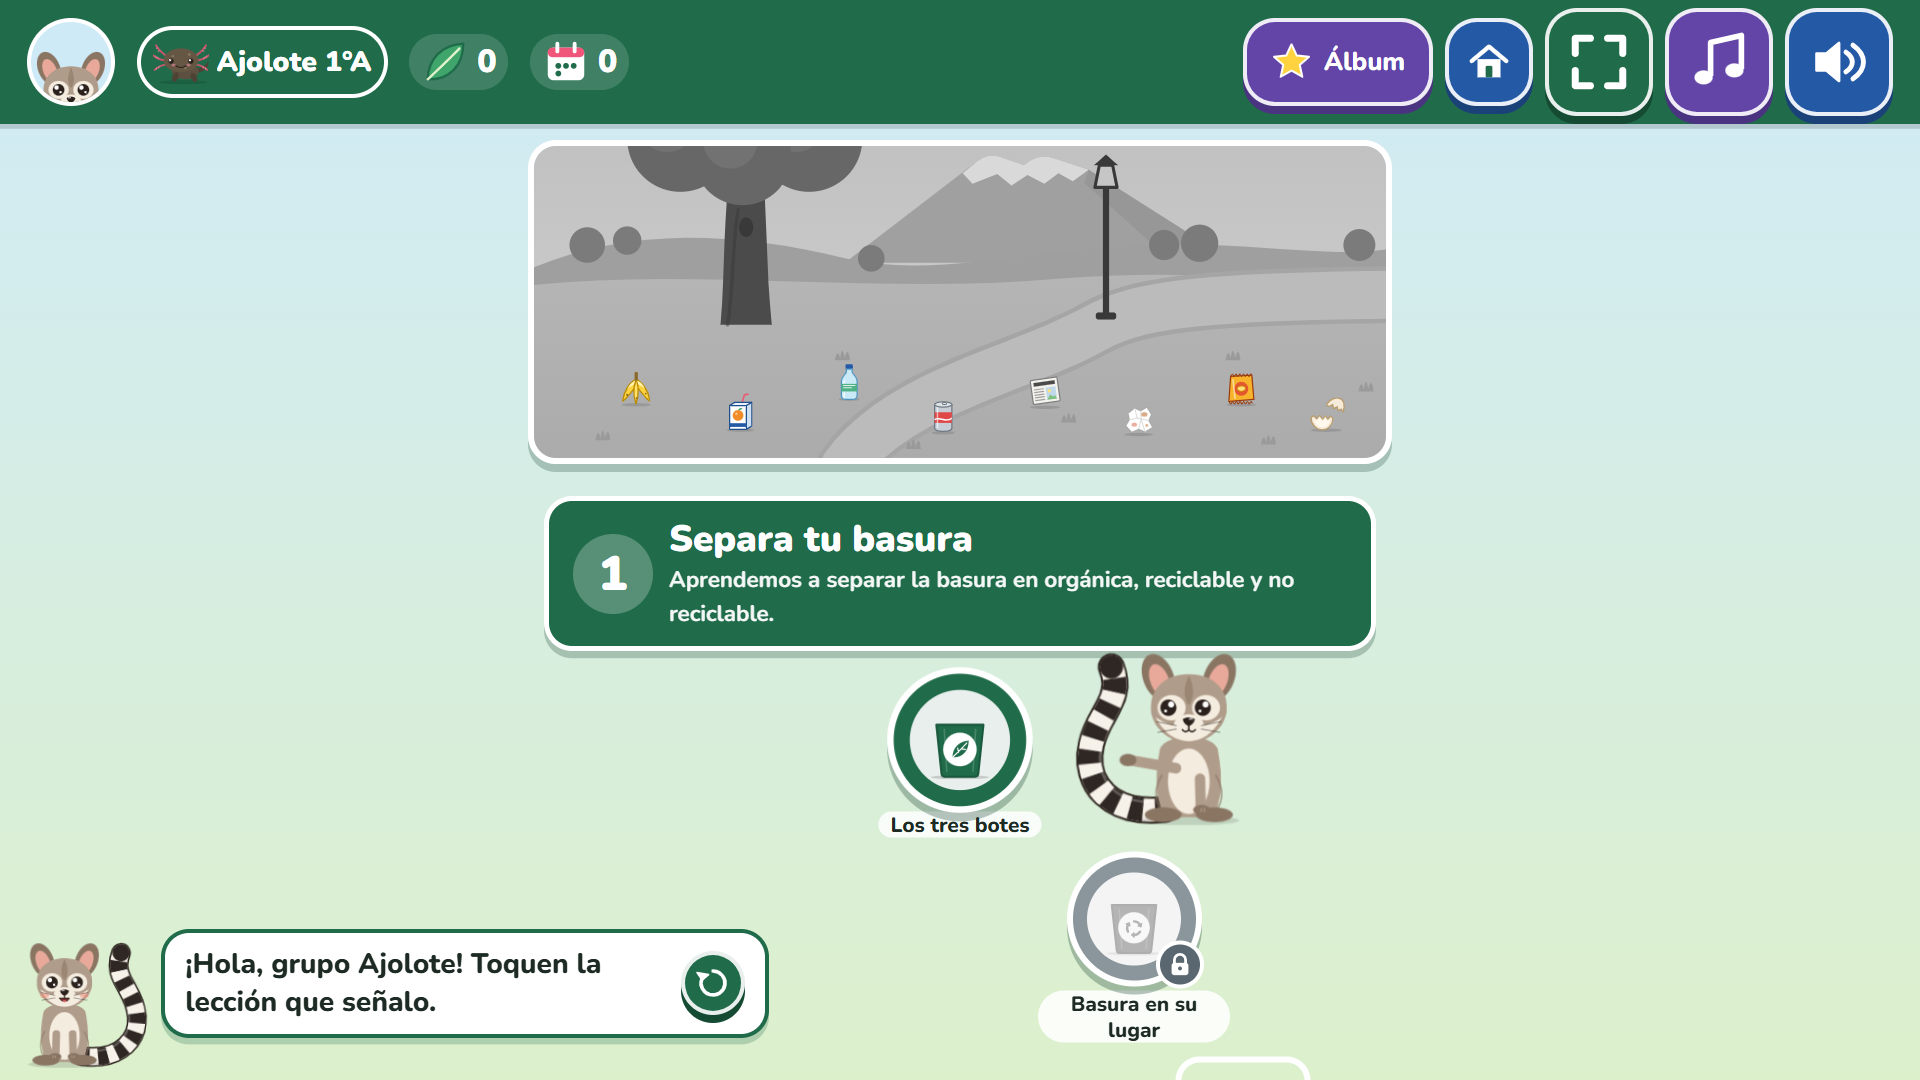
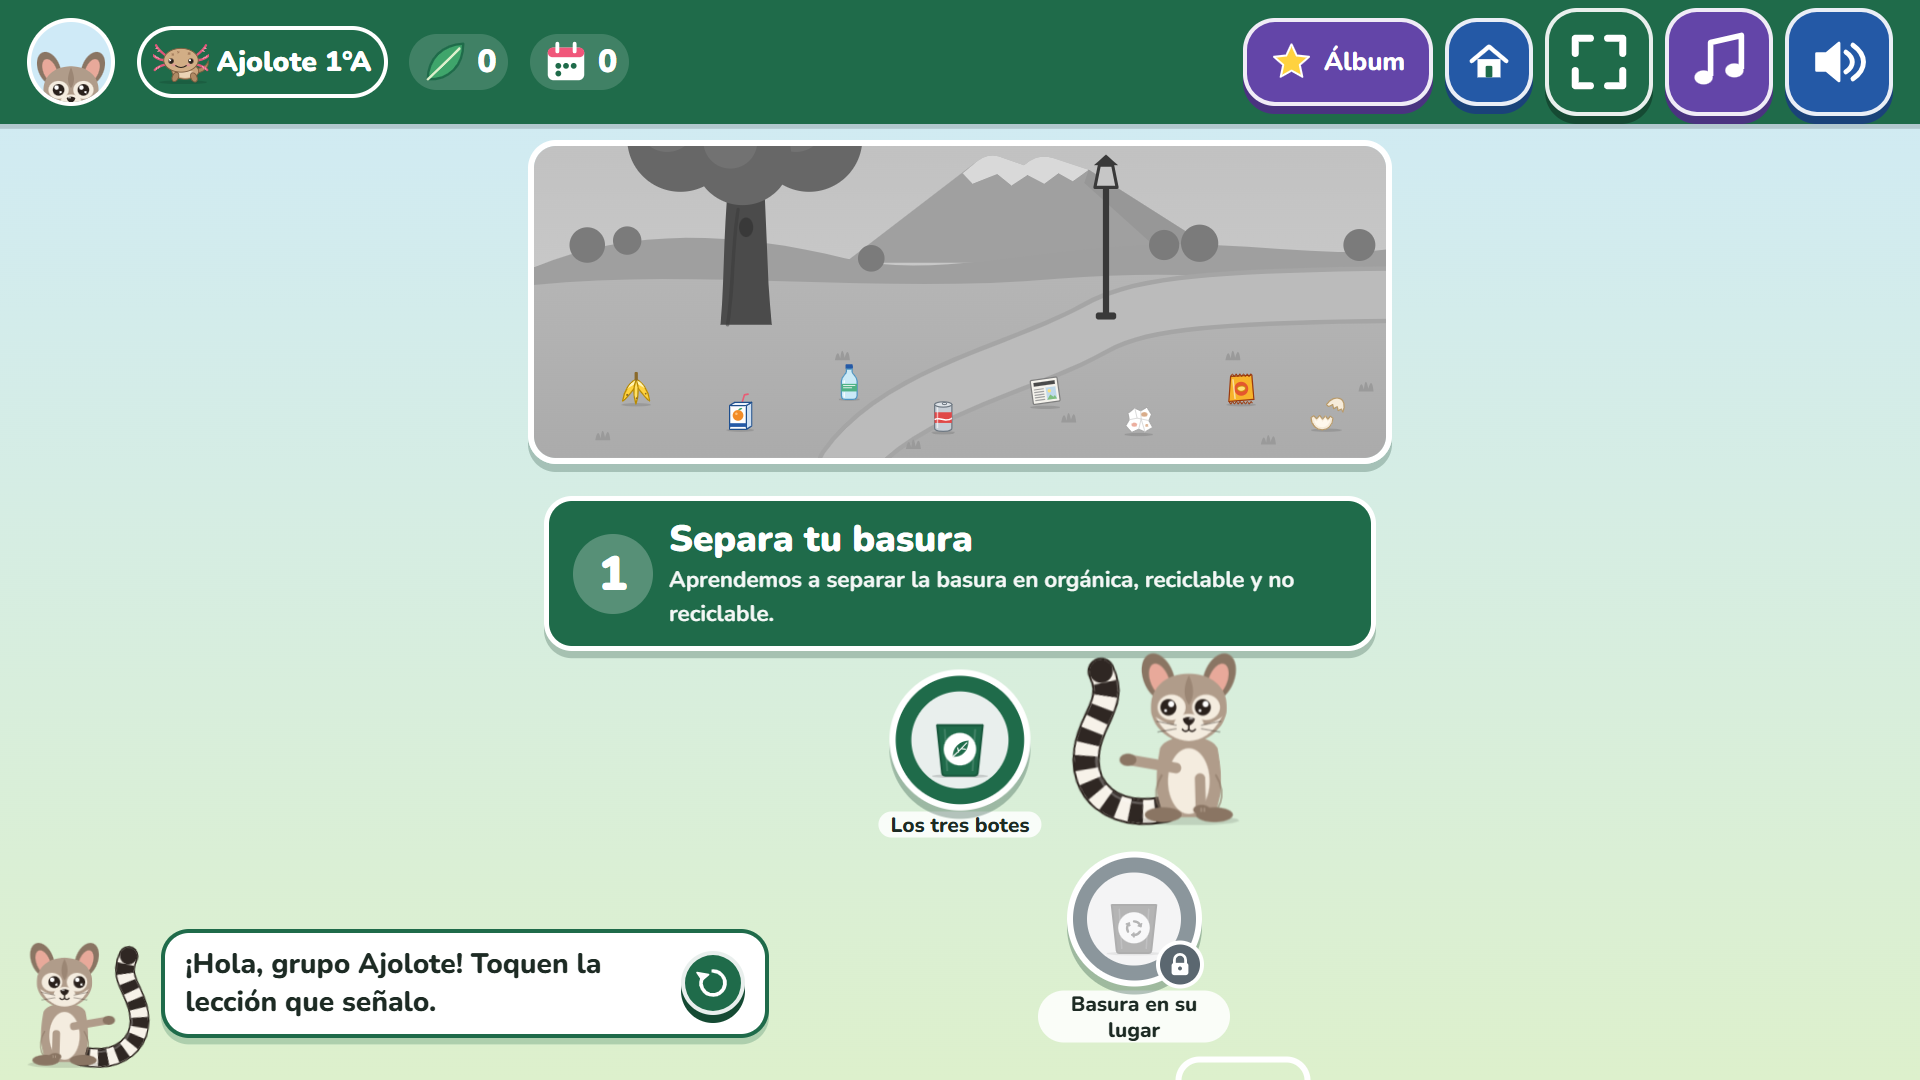
Ajustes visuales: ejercicios más grandes, Caco fijo, tarjetas parejas y ajolote
- Lecciones: Caco y su globo van en una fila de alto fijo (ya no cambian de
  lugar entre ejercicios) y el ejercicio se centra en todo el espacio que queda.
- Tarjetas, botes, caritas y escenas ≈30 % más grandes, sin salirse en 1024×768.
- Todas las tarjetas de un ejercicio miden lo mismo: alto fijo con lugar para
  dos renglones de texto ("la botella" y "el corazón de manzana" iguales).
- Nuevo grupo: los 6 animales en cuadrícula de 3 y 3; el ajolote ahora es café
  claro con panza clara y branquias rosas (antes se veía como una mancha).
- npm run capturas acepta LECCIONES=u1-l2,... para revisar cada ejercicio.
- .gitignore: archivos de Vercel (.vercel, .env*).

Changed region(s): [[0.4688, 0.6111, 0.5938, 0.7639], [0.0312, 0.8861, 0.0938, 1.0], [0.0625, 0.0306, 0.125, 0.0917]]

diff --git a/src/arte/fauna.ts b/src/arte/fauna.ts
@@ -2,8 +2,9 @@ import { arte, type ArteSvg } from './svg';
 
 /*
  * Más fauna del Valle de Toluca, dibujada en SVG con el mismo estilo plano:
- * - Ajolote de montaña (Ambystoma rivulare), de los arroyos del Nevado de Toluca: piel oscura,
- *   cabeza ancha y branquias externas plumosas.
+ * - Ajolote de montaña (Ambystoma rivulare), de los arroyos del Nevado de Toluca: cabeza ancha y
+ *   branquias externas plumosas. En la naturaleza es café oscuro; aquí va en café claro, con la panza
+ *   más clara y las branquias rosas, para que se reconozca de lejos (en el proyector y en miniatura).
  * - Tlacuache (Didelphis virginiana): pelaje gris, cara blanca, hocico largo con nariz rosa,
  *   orejas negras redondas y cola larga sin pelo.
  */
@@ -11,20 +12,21 @@ const TINTA = '#2A211C';
 
 const AJOLOTE = `
   <ellipse cx="140" cy="192" rx="110" ry="9" fill="#000" opacity=".12"/>
-  <path d="M190 150 C 240 150 262 120 256 96 C 248 120 220 132 186 130 Z" fill="#4E4234"/>
-  <ellipse cx="150" cy="142" rx="62" ry="36" fill="#5E5040"/>
-  <ellipse cx="104" cy="168" rx="14" ry="22" fill="#4E4234" transform="rotate(25 104 168)"/>
-  <ellipse cx="190" cy="170" rx="14" ry="22" fill="#4E4234" transform="rotate(-25 190 170)"/>
-  <g fill="none" stroke="#C2566B" stroke-width="9" stroke-linecap="round">
+  <path d="M190 150 C 240 150 262 120 256 96 C 248 120 220 132 186 130 Z" fill="#B08A64" stroke="#7A5A3C" stroke-width="4" stroke-linejoin="round"/>
+  <ellipse cx="150" cy="142" rx="62" ry="36" fill="#C9A47C" stroke="#7A5A3C" stroke-width="4"/>
+  <ellipse cx="150" cy="154" rx="40" ry="18" fill="#EBD3B4"/>
+  <ellipse cx="104" cy="168" rx="14" ry="22" fill="#B08A64" stroke="#7A5A3C" stroke-width="4" transform="rotate(25 104 168)"/>
+  <ellipse cx="190" cy="170" rx="14" ry="22" fill="#B08A64" stroke="#7A5A3C" stroke-width="4" transform="rotate(-25 190 170)"/>
+  <g fill="none" stroke="#E0567A" stroke-width="11" stroke-linecap="round">
     <path d="M58 70 C 34 52 22 40 14 24"/><path d="M52 92 C 26 88 12 82 2 70"/><path d="M56 112 C 32 118 18 124 8 136"/>
     <path d="M202 70 C 226 52 238 40 246 24"/><path d="M208 92 C 234 88 248 82 258 70"/><path d="M204 112 C 228 118 242 124 252 136"/>
   </g>
-  <g stroke="#E58A9A" stroke-width="4" stroke-linecap="round">
+  <g stroke="#F59AB0" stroke-width="5" stroke-linecap="round">
     <path d="M30 48 l-8 4 M22 36 l-8 2 M28 84 l-8 -6 M16 80 l-6 -8 M30 120 l-6 8 M18 126 l-4 8"/>
     <path d="M230 48 l8 4 M238 36 l8 2 M232 84 l8 -6 M244 80 l6 -8 M230 120 l6 8 M242 126 l4 8"/>
   </g>
-  <ellipse cx="130" cy="92" rx="80" ry="54" fill="#665745"/>
-  <circle cx="92" cy="72" r="4" fill="#8A7A62"/><circle cx="168" cy="66" r="5" fill="#8A7A62"/><circle cx="150" cy="128" r="4" fill="#8A7A62"/>
+  <ellipse cx="130" cy="92" rx="80" ry="54" fill="#D2AE86" stroke="#7A5A3C" stroke-width="4"/>
+  <circle cx="92" cy="66" r="5" fill="#A88160"/><circle cx="168" cy="62" r="6" fill="#A88160"/><circle cx="118" cy="56" r="4" fill="#A88160"/>
   <circle cx="84" cy="96" r="12" fill="${TINTA}"/><circle cx="176" cy="96" r="12" fill="${TINTA}"/>
   <circle cx="80" cy="92" r="4" fill="#fff"/><circle cx="172" cy="92" r="4" fill="#fff"/>
   <path d="M104 116 Q 130 134 156 116" fill="none" stroke="${TINTA}" stroke-width="5" stroke-linecap="round"/>

diff --git a/src/app/ejercicios/comun.tsx b/src/app/ejercicios/comun.tsx
@@ -43,8 +43,11 @@ const BORDES: Record<EstadoTarjeta, string> = {
   apagada: 'border-white bg-white opacity-40',
 };
 
+/** Tamaño de las tarjetas: grande en el proyector, sin salirse en una tablet de 1024×768. */
+export const TAMANO_TARJETA = 'clamp(9rem,min(30vmin,22vw),20rem)';
+
 /** Tarjeta ilustrada grande para tocar (siempre ≥ 64 px; el nombre se lee también en voz). */
-export function Tarjeta({ tarjeta, estado = 'normal', conTexto = false, sacudir = 0, tamano = 'clamp(7.5rem,19vmin,13rem)', onClick }: PropsTarjeta) {
+export function Tarjeta({ tarjeta, estado = 'normal', conTexto = false, sacudir = 0, tamano = TAMANO_TARJETA, onClick }: PropsTarjeta) {
   return (
     <motion.button
       type="button"
@@ -60,10 +63,15 @@ export function Tarjeta({ tarjeta, estado = 'normal', conTexto = false, sacudir 
       transition={{ duration: 0.4 }}
       whileTap={{ scale: 0.95 }}
       className={`relative flex cursor-pointer flex-col items-center justify-center gap-1 rounded-[1.75rem] border-[6px] p-3 shadow-[0_0.45rem_0_rgba(18,61,43,0.25)] disabled:cursor-default ${BORDES[estado]}`}
-      style={{ width: tamano, minHeight: tamano }}
+      // Alto fijo (no mínimo): "la botella" y "el corazón de manzana" miden lo mismo.
+      style={{ width: tamano, height: conTexto ? `calc(${tamano} * 1.3)` : tamano }}
     >
-      <Arte clave={tarjeta.arte} className="h-[72%] max-h-[10rem] w-[80%] object-contain" />
-      {conTexto && <span className="text-center text-[clamp(1rem,2.2vmin,1.5rem)] leading-tight font-extrabold text-tinta">{tarjeta.nombre}</span>}
+      <Arte clave={tarjeta.arte} className="min-h-0 w-[82%] flex-1 object-contain" />
+      {conTexto && (
+        <span className="flex h-[2.5em] shrink-0 items-center text-center text-[clamp(1rem,2.4vmin,1.7rem)] leading-tight font-extrabold text-tinta">
+          {tarjeta.nombre}
+        </span>
+      )}
       {estado === 'bien' && (
         <span className="absolute -top-4 -right-4 grid size-12 place-items-center rounded-full border-4 border-white bg-verde">
           <Arte clave="palomita" className="size-7" />

diff --git a/src/app/ejercicios/AlBote.tsx b/src/app/ejercicios/AlBote.tsx
@@ -45,7 +45,7 @@ export function AlBote({ ejercicio, responder, bloqueado }: PropsEjercicio<Datos
           <span key={r.id} className={`size-4 rounded-full ${i < indice ? 'bg-verde' : i === indice ? 'bg-naranja' : 'bg-white/70'}`} />
         ))}
       </div>
-      <div className="grid h-[clamp(8rem,22vmin,14rem)] place-items-center">
+      <div className="grid h-[clamp(9rem,26vmin,17rem)] place-items-center">
         {actual && (
           <motion.div
             key={actual.id}
@@ -56,7 +56,7 @@ export function AlBote({ ejercicio, responder, bloqueado }: PropsEjercicio<Datos
             initial={{ scale: 0.6, opacity: 0 }}
             animate={{ scale: arrastre ? 1.08 : 1, opacity: 1, x: arrastre?.x ?? 0, y: arrastre?.y ?? 0 }}
             transition={arrastre ? { duration: 0 } : { type: 'spring', stiffness: 300, damping: 22 }}
-            className="relative z-10 grid size-[clamp(8rem,22vmin,14rem)] cursor-grab touch-none place-items-center rounded-full bg-crema shadow-[0_0.5rem_0_rgba(18,61,43,0.2)] active:cursor-grabbing"
+            className="relative z-10 grid size-[clamp(9rem,26vmin,17rem)] cursor-grab touch-none place-items-center rounded-full bg-crema shadow-[0_0.5rem_0_rgba(18,61,43,0.2)] active:cursor-grabbing"
             onPointerDown={(e) => {
               if (bloqueado) return;
               sonido.desbloquear();
@@ -99,7 +99,7 @@ export function AlBote({ ejercicio, responder, bloqueado }: PropsEjercicio<Datos
             whileTap={{ scale: 0.95 }}
             className="flex cursor-pointer flex-col items-center gap-1"
           >
-            <Arte clave={`bote-${c.id}`} className="h-[clamp(7rem,20vmin,13rem)]" />
+            <Arte clave={`bote-${c.id}`} className="h-[clamp(8rem,26vmin,17rem)]" />
             <span className="rounded-full border-4 bg-white px-4 py-1 text-[clamp(1rem,2.3vmin,1.6rem)] font-extrabold" style={{ borderColor: c.color, color: c.color }}>
               {c.nombre}
             </span>

diff --git a/src/app/ejercicios/SiNo.tsx b/src/app/ejercicios/SiNo.tsx
@@ -36,7 +36,7 @@ export function SiNo({ ejercicio, responder, bloqueado }: PropsEjercicio<Datos>)
       disabled={resuelto && si !== ejercicio.respuesta}
       className={`flex cursor-pointer flex-col items-center gap-2 rounded-[2rem] p-2 disabled:opacity-30 ${resuelto && si === ejercicio.respuesta ? 'ring-8 ring-verde/40' : ''}`}
     >
-      <Arte clave={si ? 'carita-feliz' : 'carita-triste'} className="size-[clamp(6.5rem,17vmin,11rem)]" />
+      <Arte clave={si ? 'carita-feliz' : 'carita-triste'} className="size-[clamp(7.5rem,22vmin,14rem)]" />
       <span className="text-[clamp(1.1rem,2.4vmin,1.6rem)] font-extrabold text-tinta">{si ? TEXTOS_APP.leccion.siEstaBien : TEXTOS_APP.leccion.noEstaBien}</span>
     </motion.button>
   );
@@ -44,9 +44,9 @@ export function SiNo({ ejercicio, responder, bloqueado }: PropsEjercicio<Datos>)
   return (
     <div className="flex flex-wrap items-center justify-center gap-[clamp(1.5rem,5vmin,4rem)]" data-ejercicio="si-no">
       {carita(true)}
-      <div className="flex h-[clamp(9rem,26vmin,17rem)] items-center justify-center gap-2 rounded-[2rem] border-[6px] border-white bg-cielo p-4 shadow-[0_0.45rem_0_rgba(18,61,43,0.25)]">
-        <Arte clave={ejercicio.arte} className="h-full max-w-[clamp(8rem,22vmin,14rem)] object-contain" />
-        {ejercicio.junto && <Arte clave={ejercicio.junto} className="h-[62%] max-w-[clamp(5rem,14vmin,9rem)] self-end object-contain" />}
+      <div className="flex h-[clamp(10rem,33vmin,21rem)] items-center justify-center gap-2 rounded-[2rem] border-[6px] border-white bg-cielo p-4 shadow-[0_0.45rem_0_rgba(18,61,43,0.25)]">
+        <Arte clave={ejercicio.arte} className="h-full max-w-[clamp(9rem,28vmin,18rem)] object-contain" />
+        {ejercicio.junto && <Arte clave={ejercicio.junto} className="h-[62%] max-w-[clamp(6rem,18vmin,12rem)] self-end object-contain" />}
       </div>
       {carita(false)}
     </div>

diff --git a/src/app/pantallas/Leccion.tsx b/src/app/pantallas/Leccion.tsx
@@ -110,13 +110,19 @@ export function Leccion() {
         <BotonesSistema enLinea />
       </header>
 
-      <div className="flex min-h-0 flex-1 flex-col items-center justify-center gap-[clamp(0.75rem,2.5vmin,2rem)] px-4 pb-[clamp(7rem,18vmin,11rem)]">
-        <CacoGuia alto="clamp(6rem,17vmin,11rem)" sinGlobo={!!banner} className="self-start pl-[2vw]" />
-        {actual && (
-          <div className="flex w-full justify-center" data-ejercicio-id={actual.id} data-repaso={esRepaso}>
-            <Ejercicio key={claveEjercicio} ejercicio={actual} responder={responder} bloqueado={!!banner} />
-          </div>
-        )}
+      <div className="flex min-h-0 flex-1 flex-col px-4 pb-[clamp(3rem,8vmin,6rem)]">
+        {/* Caco y su globo siempre en el mismo lugar, sin importar el tamaño del ejercicio. */}
+        <div className="flex h-[clamp(7rem,19vmin,12rem)] shrink-0 items-center pl-[2vw]">
+          <CacoGuia alto="clamp(6rem,17vmin,11rem)" sinGlobo={!!banner} />
+        </div>
+        {/* El ejercicio ocupa y se centra en todo el espacio que queda. */}
+        <div className="flex min-h-0 flex-1 items-center justify-center">
+          {actual && (
+            <div className="flex w-full justify-center" data-ejercicio-id={actual.id} data-repaso={esRepaso}>
+              <Ejercicio key={claveEjercicio} ejercicio={actual} responder={responder} bloqueado={!!banner} />
+            </div>
+          )}
+        </div>
       </div>
 
       {banner && <BannerRespuesta banner={banner} alContinuar={continuar} />}

diff --git a/src/app/pantallas/Grupos.tsx b/src/app/pantallas/Grupos.tsx
@@ -87,7 +87,8 @@ function CrearGrupo({ alCerrar }: { alCerrar: () => void }) {
   return (
     <Modal etiqueta={TEXTOS_APP.grupos.nuevo}>
       <h2 className="text-[clamp(1.6rem,4vmin,2.4rem)] font-black text-verde">{TEXTOS_APP.grupos.nuevo}</h2>
-      <div className="flex flex-wrap justify-center gap-3" role="radiogroup" aria-label="Animal del grupo">
+      {/* Cuadrícula pareja: 3 y 3. */}
+      <div className="grid grid-cols-3 justify-items-center gap-3" role="radiogroup" aria-label="Animal del grupo">
         {MASCOTAS.map((m) => (
           <button
             key={m.id}
@@ -97,7 +98,7 @@ function CrearGrupo({ alCerrar }: { alCerrar: () => void }) {
             aria-label={m.nombre}
             data-mascota={m.id}
             onClick={() => setMascota(m.id)}
-            className={`flex w-[clamp(6rem,13vmin,8rem)] cursor-pointer flex-col items-center gap-1 rounded-2xl border-[5px] bg-white p-2 font-extrabold ${mascota === m.id ? 'border-verde ring-8 ring-verde/30' : 'border-white'}`}
+            className={`flex w-[clamp(6.5rem,15vmin,9rem)] cursor-pointer flex-col items-center gap-1 rounded-2xl border-[5px] bg-white p-2 font-extrabold ${mascota === m.id ? 'border-verde ring-8 ring-verde/30' : 'border-white'}`}
           >
             <Arte clave={m.arte} className="h-[clamp(3.5rem,8vmin,5rem)] object-contain" />
             {m.nombre}

diff --git a/src/app/ejercicios/EncuentraError.tsx b/src/app/ejercicios/EncuentraError.tsx
@@ -33,7 +33,7 @@ export function EncuentraError({ ejercicio, responder, bloqueado }: PropsEjercic
           </span>
         ))}
       </div>
-      <div className="relative aspect-video w-[min(92vw,calc(58vh*16/9))] overflow-hidden rounded-[1.75rem] border-[6px] border-white shadow-[0_0.5rem_0_rgba(18,61,43,0.25)]">
+      <div className="relative aspect-video w-[min(92vw,calc(56vh*16/9))] overflow-hidden rounded-[1.75rem] border-[6px] border-white shadow-[0_0.5rem_0_rgba(18,61,43,0.25)]">
         <Arte clave={ejercicio.escena} className="absolute inset-0 h-full w-full object-cover" />
         {ejercicio.objetos.map((o) => {
           const hallado = encontrados.includes(o.id);

diff --git a/src/app/ejercicios/Parejas.tsx b/src/app/ejercicios/Parejas.tsx
@@ -45,7 +45,7 @@ export function Parejas({ ejercicio, responder, bloqueado }: PropsEjercicio<Dato
     return 'normal' as const;
   };
 
-  const tamano = 'clamp(6.5rem,15vmin,10.5rem)';
+  const tamano = ejercicio.pares.length >= 4 ? 'clamp(6rem,min(13vh,20vw),11rem)' : 'clamp(7rem,min(17vh,22vw),14rem)';
   return (
     <div className="flex items-center justify-center gap-[clamp(2rem,10vmin,8rem)]" data-ejercicio="parejas">
       {(['izquierda', 'derecha'] as const).map((lado) => (

diff --git a/src/app/ejercicios/Ordena.tsx b/src/app/ejercicios/Ordena.tsx
@@ -12,7 +12,7 @@ export function Ordena({ ejercicio, responder, bloqueado }: PropsEjercicio<Datos
   const revueltas = useMemo(() => revolver(ejercicio.pasos), [ejercicio]);
   const [puestas, setPuestas] = useState(0);
   const [error, setError] = useState<{ id: string; vez: number } | null>(null);
-  const tamano = 'clamp(6.5rem,15vmin,10.5rem)';
+  const tamano = 'clamp(7rem,min(21vmin,16vw),14rem)';
 
   const tocar = (id: string) => {
     if (bloqueado) return;
